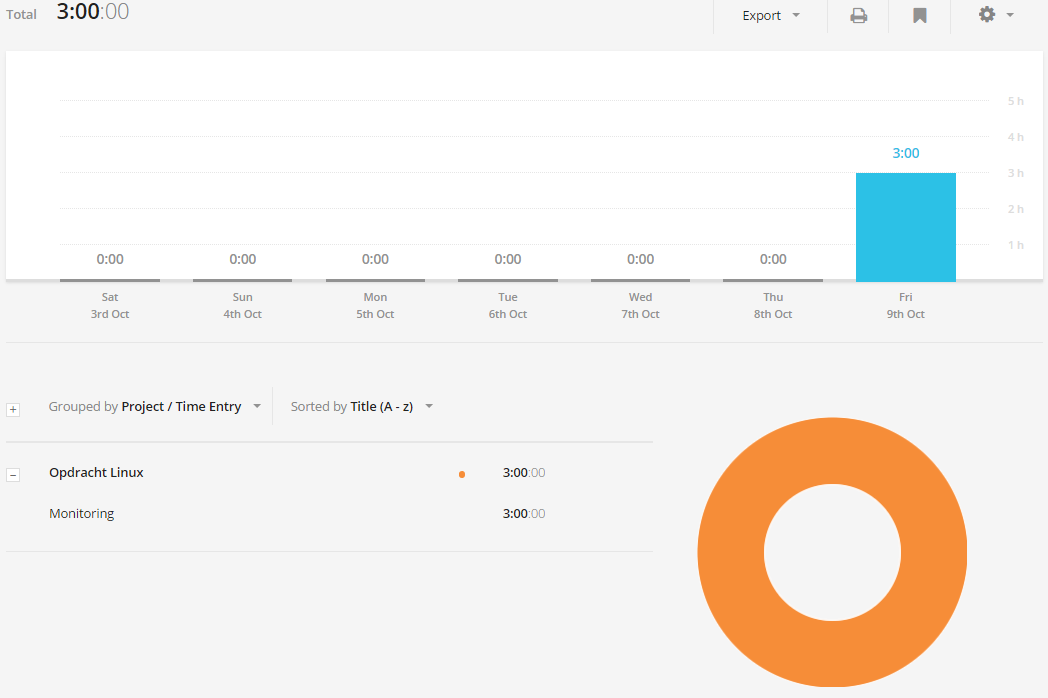
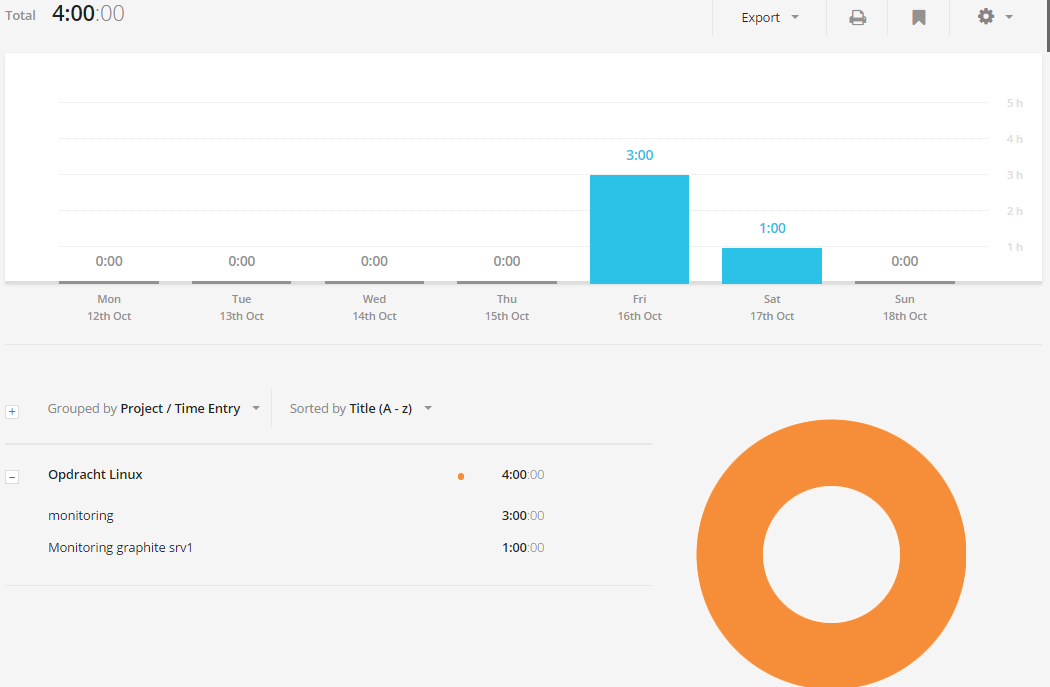
weekrapport

diff --git a/weekrapport/week06.md b/weekrapport/week06.md
@@ -25,9 +25,13 @@
 
 * Proberen oplossen van het lampstack inlogprobleem.
 
-### Student 2
+### Lucas
 
-* ...
+* Monitoring server opgezet (collectd)
+* Collectd-web opgezet
+* Documentatie monitoring
+
+![](https://github.com/HoGentTIN/ops3-g01/blob/master/weekrapport/img/Week5_Lucas_toggl.PNG)
 
 [Afbeelding individueel rapport tijdregistratie]
 
@@ -48,7 +52,9 @@
 ### Algemeen
 ### Jordi
 Tot en met hoofdstuk 6 lezen van Powershell boek
-### Student 2
+### Lucas
+* Powershell boek verder lezen en documenteren
+* Monitoring verder uitbreiden en firewall
 ### Student 3
 ### Student 4
 

diff --git a/deelopdracht01/Documentatie-Monitoring.md b/deelopdracht01/Documentatie-Monitoring.md
@@ -15,5 +15,8 @@
 - <https://github.com/jsmartin/ansible-graphite>
 - <https://github.com/dmichel1/ansible-graphite>
 
+- <http://dandydev.net/blog/statserver-setting-up-monitoring-and-statistics-with-ansible#.VjJvjPkvf4Z>
+
+- <https://github.com/httpdss/collectd-web>
  
 - Yum: <http://www.fedoraforum.org/forum/showthread.php?t=25880>
